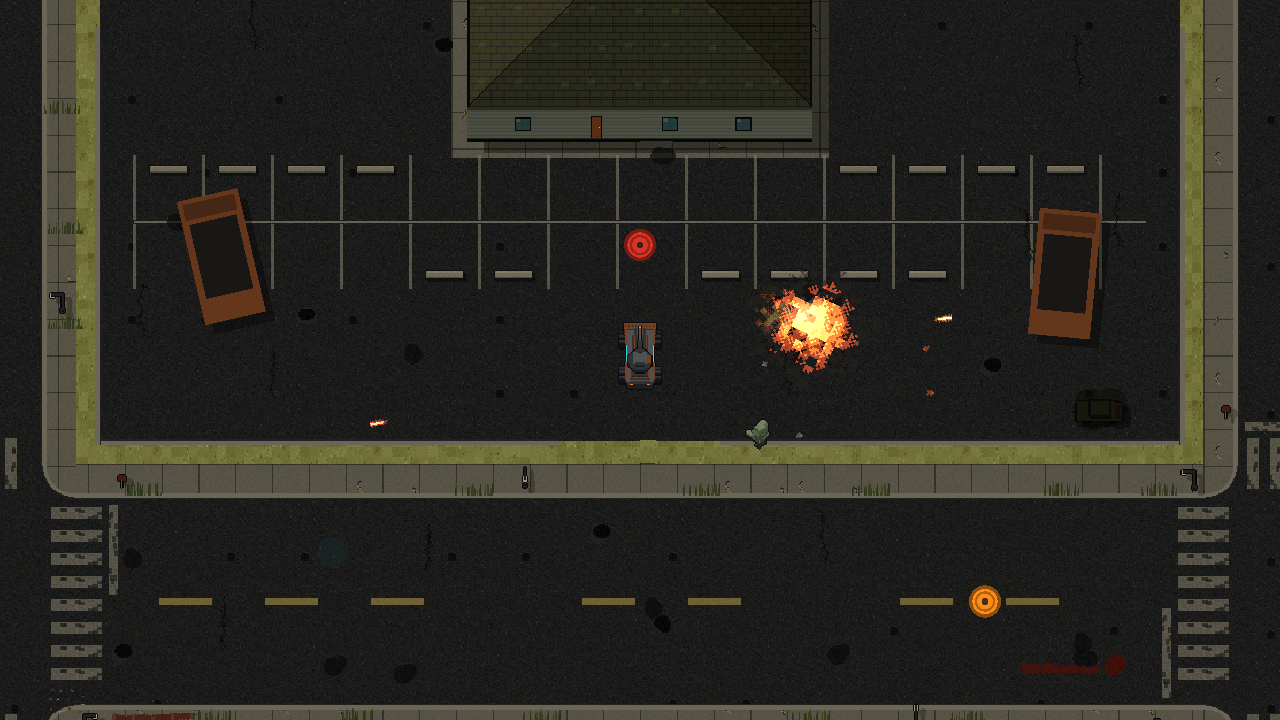
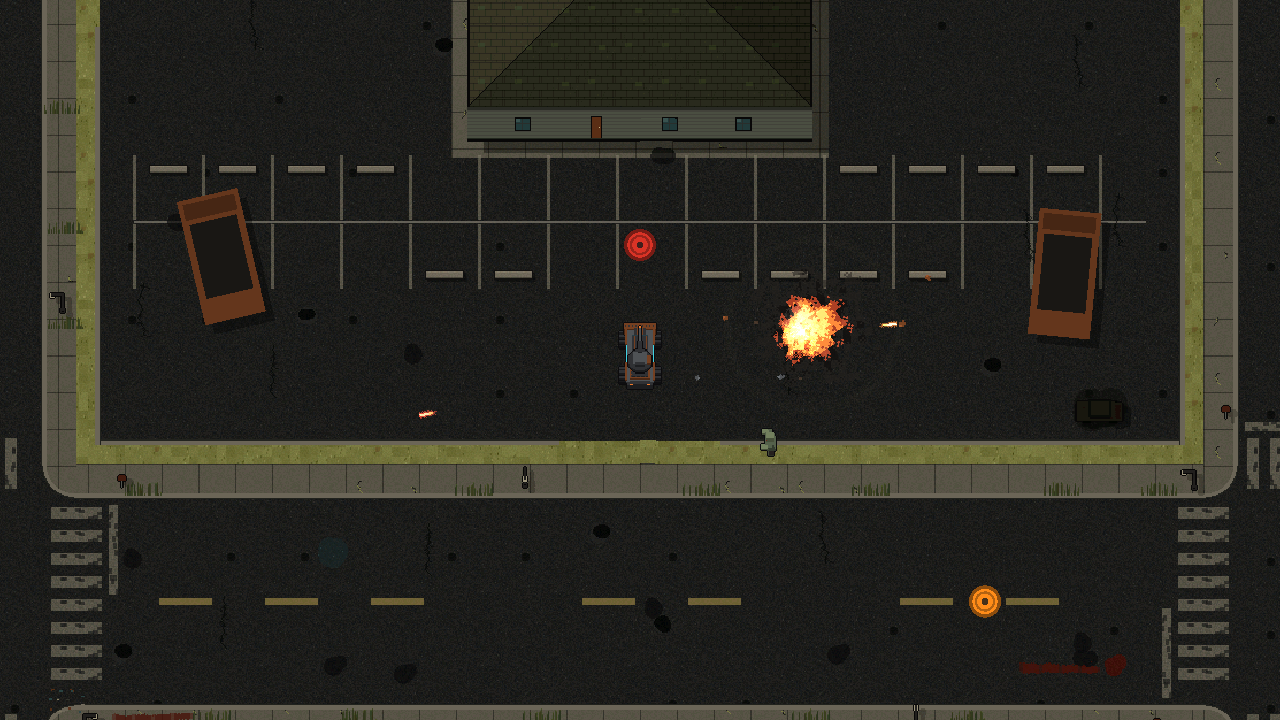
Night world tint is the cooler #2a3550
Cameron's final night colour replaces the brown grade. COL_NIGHT_WORLD and the garage street night are RGB 42, 53, 80, and the workshop bay metadata matches. The per-job roll stays until Content's roll lands.

Changed region(s): [[0.5938, 0.3972, 0.75, 0.5194], [0.5625, 0.5806, 0.625, 0.6417]]

diff --git a/tools/art/garage_scenes.py b/tools/art/garage_scenes.py
@@ -47,7 +47,7 @@ SAMPLE_COLOURS = {
     "GARAGE_OIL": (24, 23, 24),
     "GARAGE_PEGBOARD": (74, 60, 44),
     "GARAGE_WALL": (46, 48, 52),        # corrugated sheet
-    "GARAGE_STREET_NIGHT": (81, 43, 17),# outside the roll-up door (#512b11, = COL_NIGHT_WORLD)
+    "GARAGE_STREET_NIGHT": (42, 53, 80),# outside the roll-up door (#2a3550, = COL_NIGHT_WORLD)
     "GARAGE_GAS_RED": (110, 40, 34),    # welding cylinders (muted, not enemy red)
 }
 C.update({k.lower(): v for k, v in SAMPLE_COLOURS.items()})
